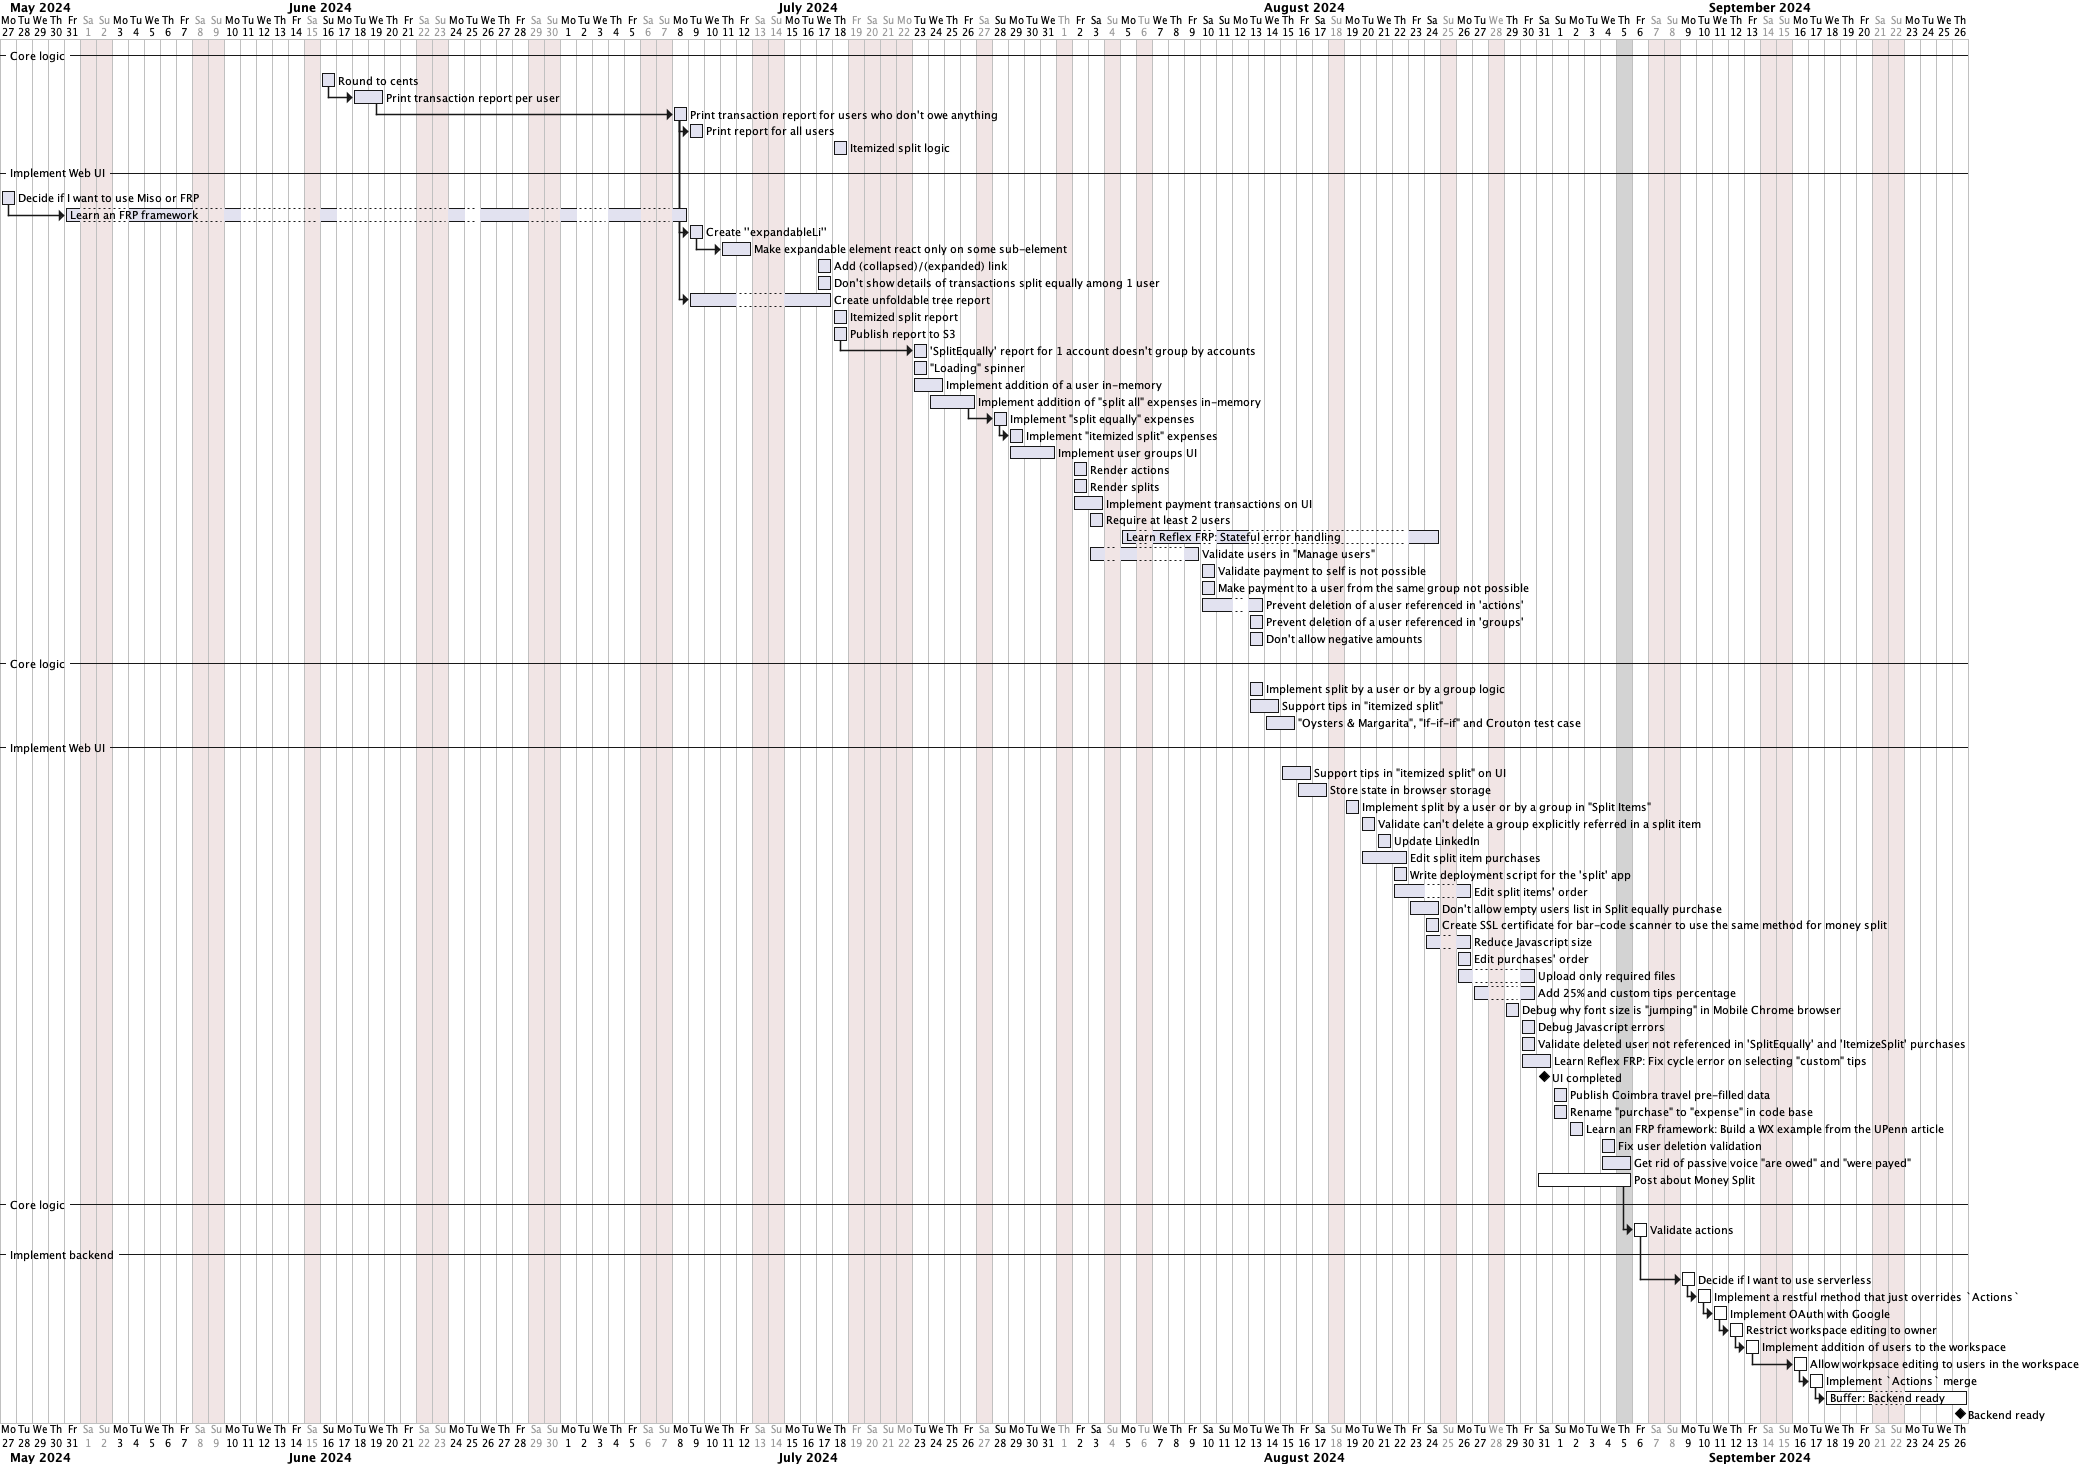
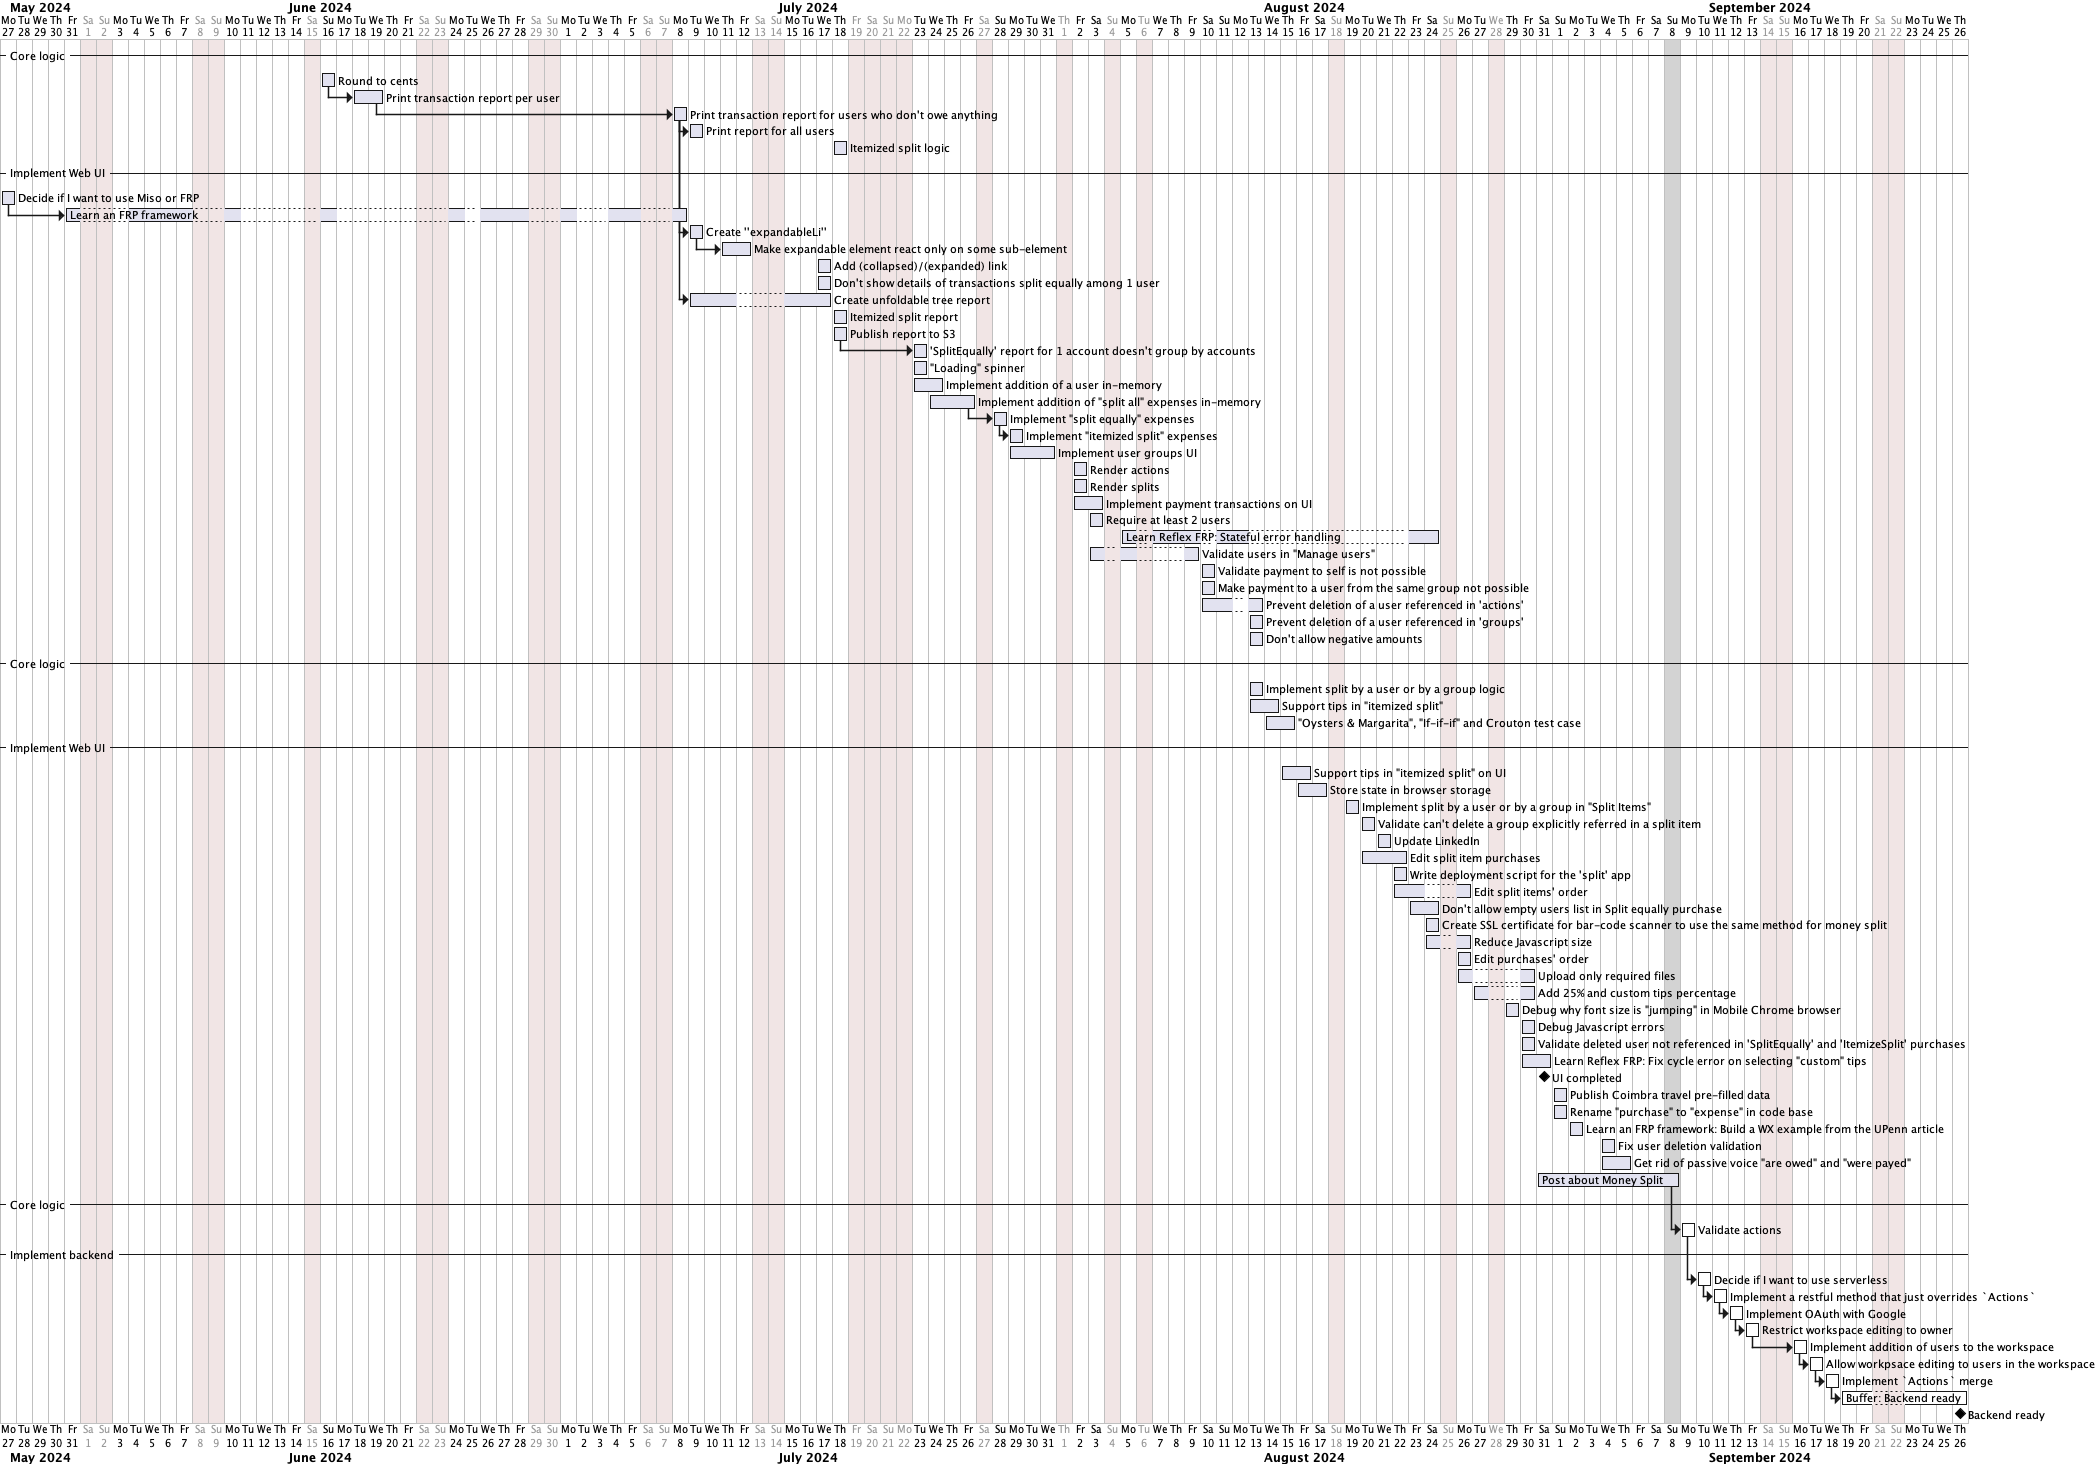
Add 'README.md'
Plus other minor edits.

Changed region(s): [[0.0, 0.0, 0.9688, 1.0], [0.0, 0.9836, 0.0312, 1.0]]

diff --git a/README.md b/README.md
@@ -1,0 +1,1 @@
+Check [this blog post](https://blog.tellary.ru/posts/2024-09-08-money-split.html) out.
